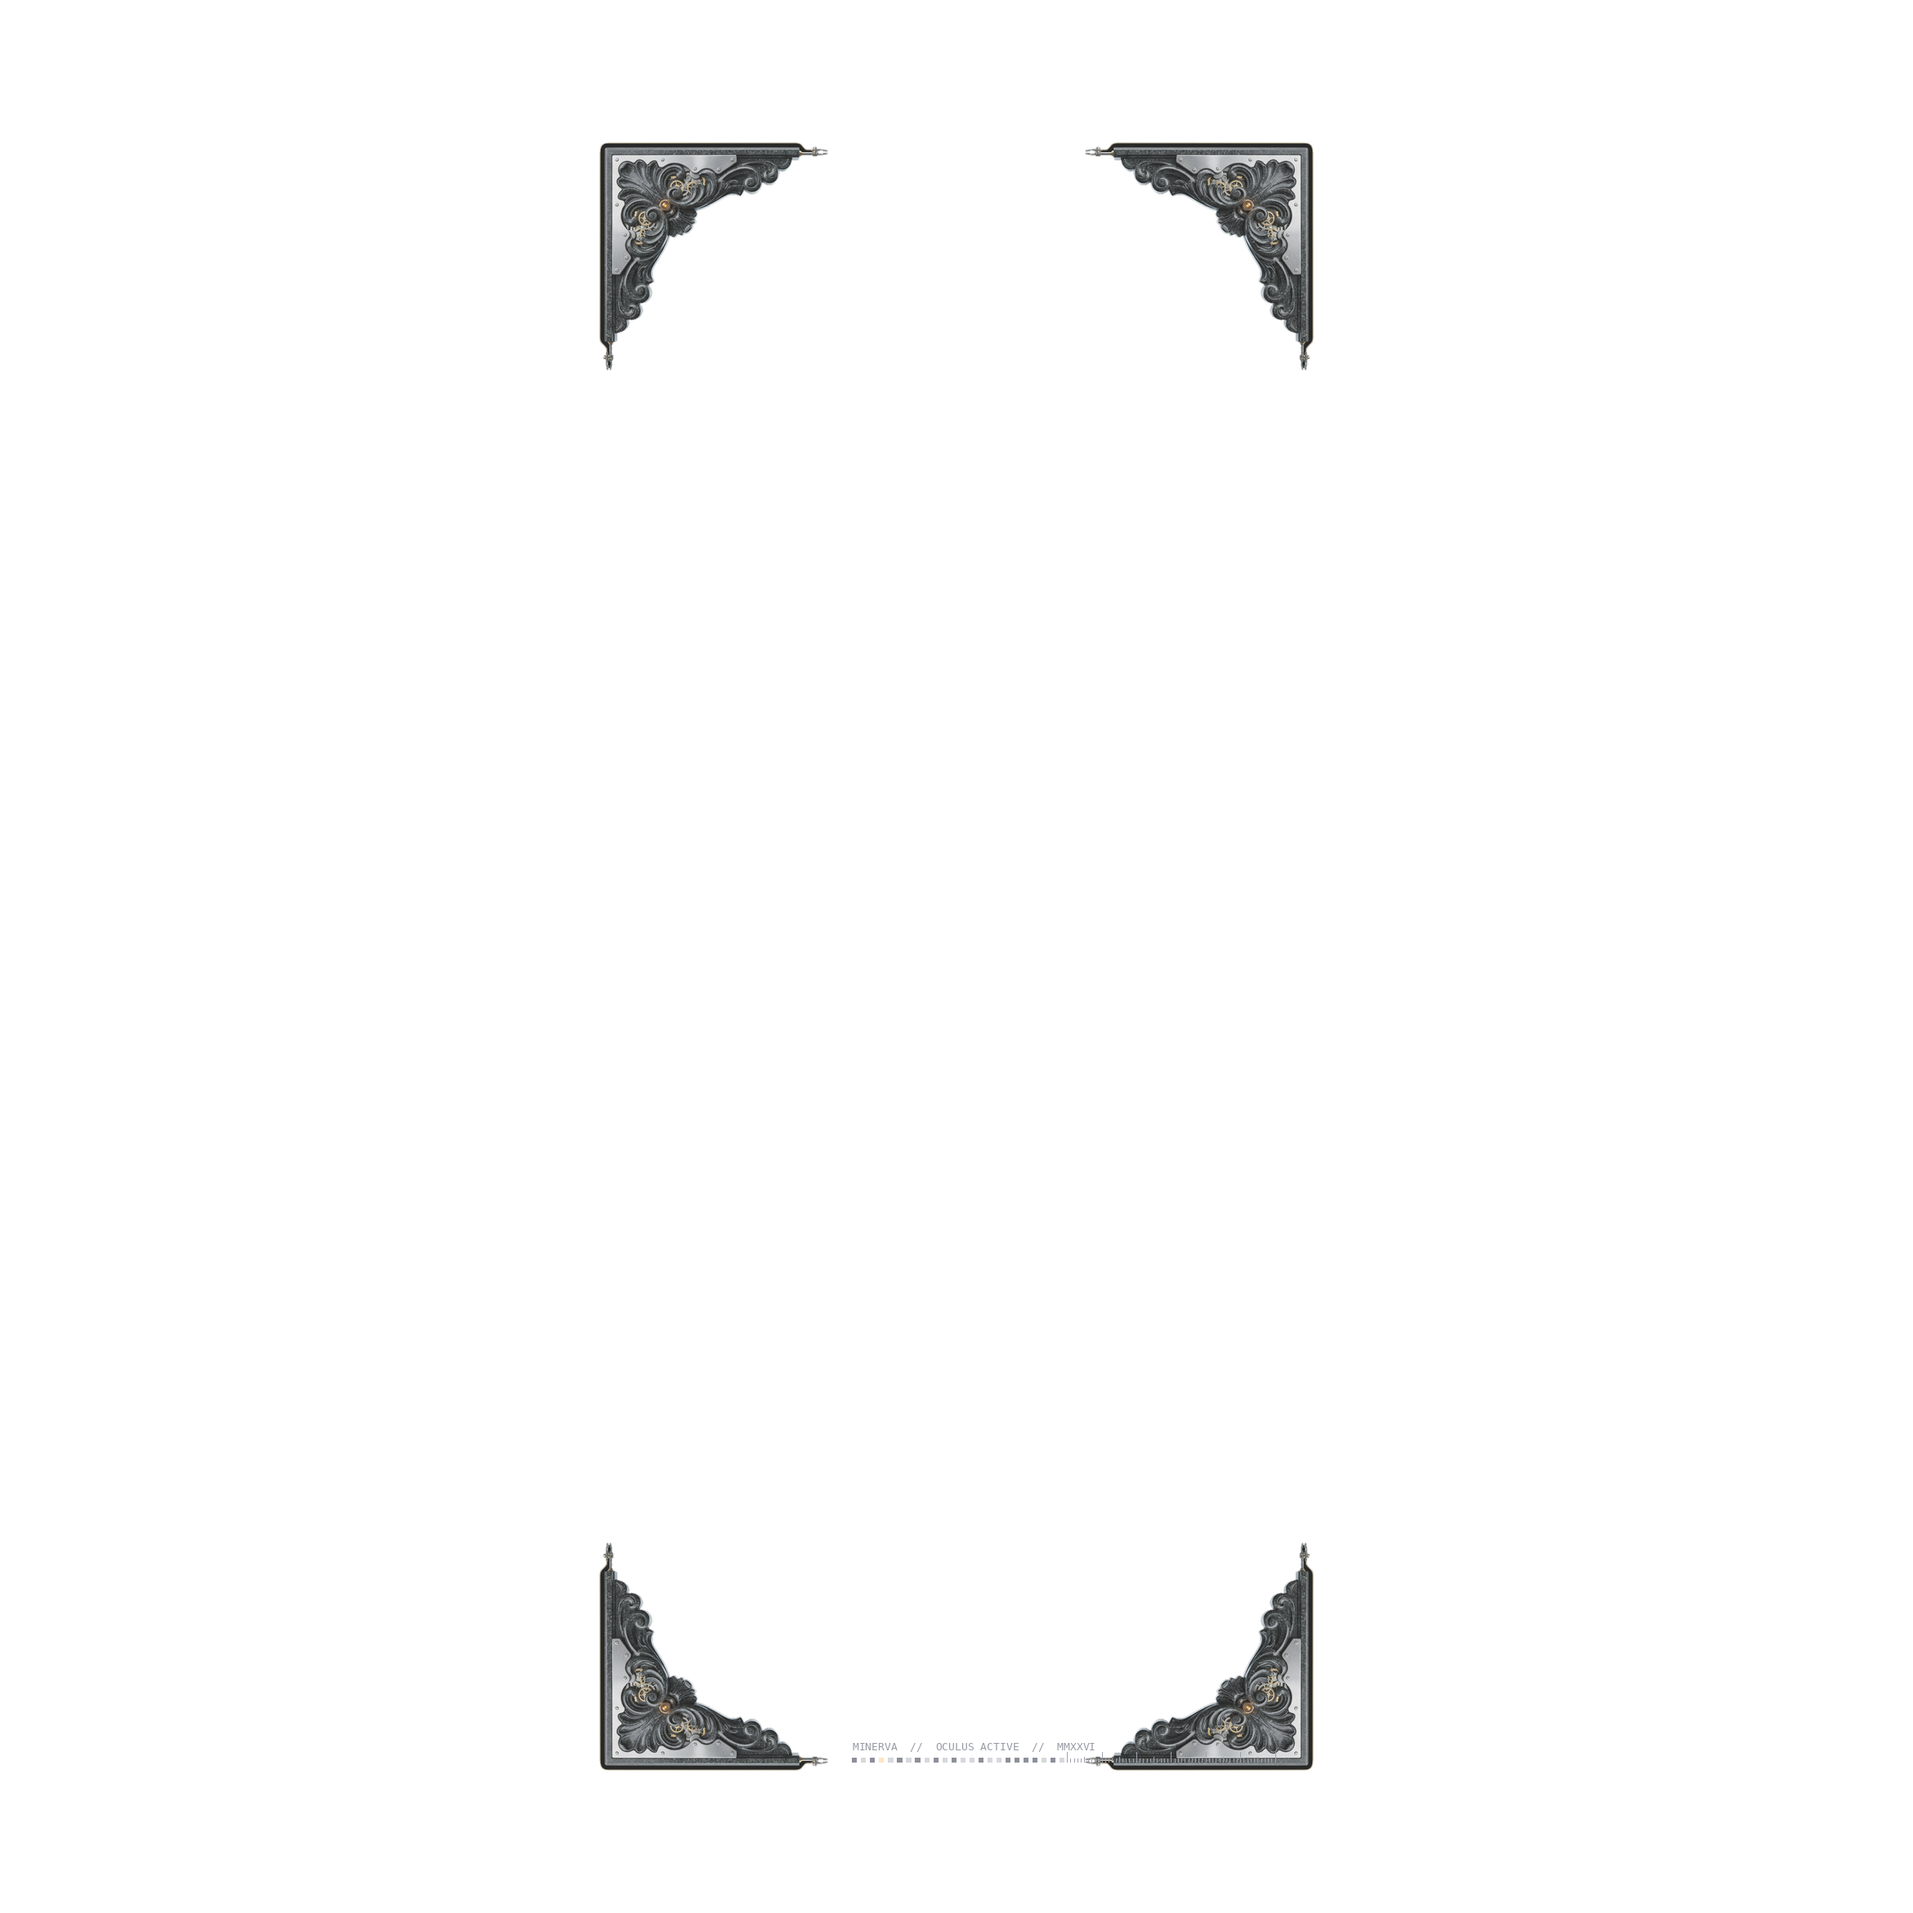
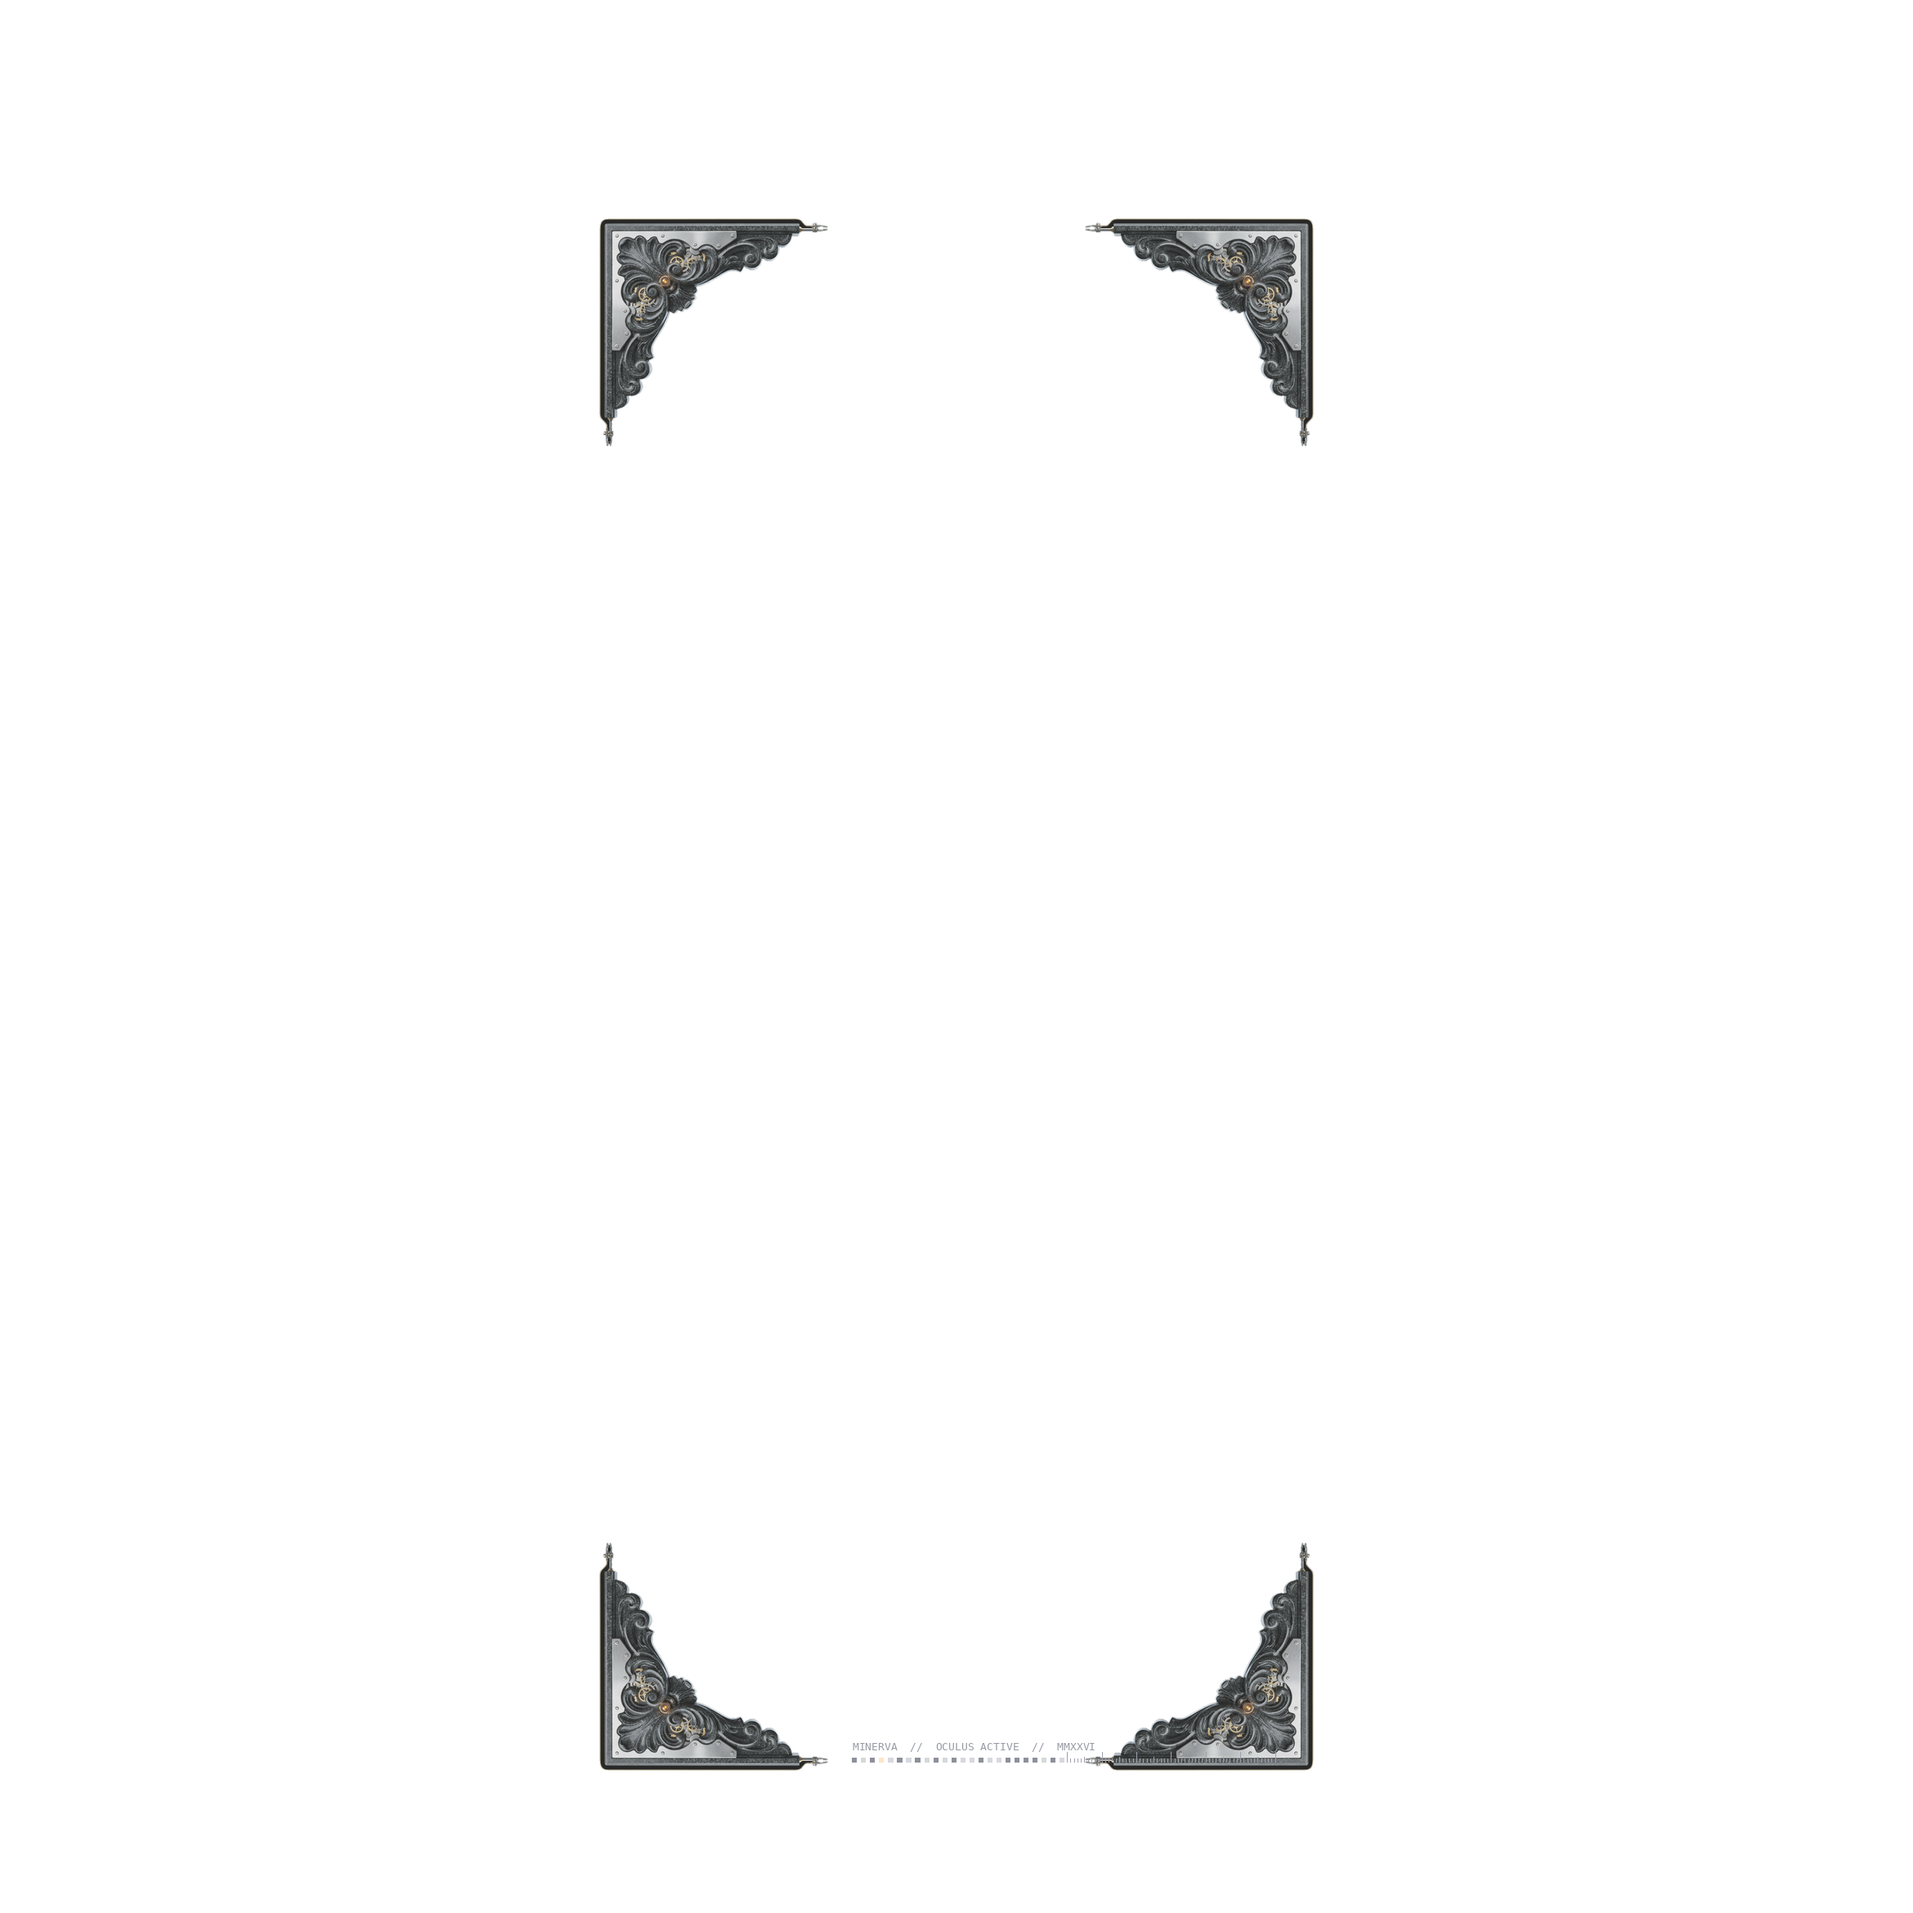
theme v3 (wip): silver tick scale on the shade edge, silver hairline gild, Settings cyan to amber, wallpaper corners clear of the status line

Changed region(s): [[0.5615, 0.0624, 0.6863, 0.2184], [0.312, 0.0624, 0.4368, 0.2184]]

diff --git a/apps/settings/src/style.css b/apps/settings/src/style.css
@@ -77,7 +77,7 @@ button.ns-uninstall { margin: 8px 16px 24px; min-height: 48px; border-radius: 14
  * Michelangelus is installed from the owner's copy, never shipped: the chain falls back. No animation. */
 window.ns-ren, window.ns-ren .ns-root, window.ns-ren.ns-dark, window.ns-ren.ns-dark .ns-root { background-color: #08070d; color: #f0e6d0; }
 window.ns-ren .ns-card, window.ns-ren.ns-dark .ns-card, window.ns-ren .ns-li, window.ns-ren.ns-dark .ns-li {
-  background-color: #13121e; border-radius: 14px; box-shadow: inset 0 0 0 1px alpha(#d9b26a, 0.30); }
+  background-color: #13121e; border-radius: 14px; box-shadow: inset 0 0 0 1px alpha(#b0b5c2, 0.28); }
 window.ns-ren .ns-li-first { border-top-left-radius: 14px; border-top-right-radius: 14px; }
 window.ns-ren .ns-li-last { border-bottom-left-radius: 14px; border-bottom-right-radius: 14px; }
 window.ns-ren .ns-big, window.ns-ren .ns-huge, window.ns-ren .ns-head, window.ns-ren .ns-big-title {
@@ -85,14 +85,14 @@ window.ns-ren .ns-big, window.ns-ren .ns-huge, window.ns-ren .ns-head, window.ns
 window.ns-ren .ns-group-title { color: #d9b26a; font-family: "JetBrains Mono", monospace; font-size: 12px; letter-spacing: 2px; }
 window.ns-ren .ns-title, window.ns-ren label.title, window.ns-ren row { color: #f0e6d0; }
 window.ns-ren .ns-sub, window.ns-ren .ns-note { color: alpha(#f0e6d0, 0.6); }
-window.ns-ren .ns-card separator, window.ns-ren .ns-li > separator { background-color: alpha(#d9b26a, 0.16); }
+window.ns-ren .ns-card separator, window.ns-ren .ns-li > separator { background-color: alpha(#b0b5c2, 0.18); }
 window.ns-ren .ns-accent { color: #d9b26a; }
 window.ns-ren .ns-blue, window.ns-ren .ns-violet, window.ns-ren .ns-purple { background-color: #23418f; color: #d9b26a; }
 window.ns-ren .ns-green, window.ns-ren .ns-lime { background-color: #4a2d0a; color: #ff9f2e; }
 window.ns-ren .ns-orange, window.ns-ren .ns-yellow { background-color: #4a2a1c; color: #e0936f; }
 window.ns-ren .ns-red, window.ns-ren .ns-pink { background-color: #6b1237; color: #ff6f9c; }
 window.ns-ren .ns-grey { background-color: #2a283d; color: #bdb299; }
-window.ns-ren .ns-icon { box-shadow: inset 0 0 0 1px alpha(#d9b26a, 0.55); }
+window.ns-ren .ns-icon { box-shadow: inset 0 0 0 1px alpha(#b0b5c2, 0.45); }
 window.ns-ren switch:checked { background-color: #23418f; }
 window.ns-ren switch:checked slider { background-color: #d9b26a; }
 window.ns-ren scale highlight { background-color: #d9b26a; }

diff --git a/extension/ornament.js b/extension/ornament.js
@@ -1,0 +1,54 @@
+// Ornament of the Renaissance look (theme.js): fine silver hairlines and tick scales, the instrument-panel side of
+// "Cyberpunk meets Italian Renaissance". Drawn once (Canvas redraws only when its size changes), nothing animates.
+import GObject from 'gi://GObject';
+
+import {Canvas} from './icons.js';
+import {Color, setSource} from './palette.js';
+
+const STEP = 5;             // logical px between ticks
+const BAND = 14;            // the scale's height, logical px
+
+// A scale across the width: a hairline with ticks every STEP px (long every 5th, a gold diamond at the middle) and
+// a few tiny HUD squares at the right end. Under the stock look it is never built.
+export const TickScale = GObject.registerClass(
+class TickScale extends Canvas {
+    constructor(width) {
+        super({width, height: BAND});
+    }
+
+    draw(cr, width, height) {
+        const y = Math.round(height / 2) + 0.5;
+        const margin = 40;      // clear of the scrim's rounded corners
+        cr.setLineWidth(1);
+        setSource(cr, Color.silverDim, 0.55);
+        cr.moveTo(margin, y);
+        cr.lineTo(width - margin, y);
+        cr.stroke();
+        const n = Math.floor((width - 2 * margin) / STEP);
+        const mid = margin + Math.round(n / 2) * STEP;
+        for (let i = 0; i <= n; i++) {
+            const x = margin + i * STEP + 0.5;
+            const major = i % 5 === 0;
+            const len = major ? 5 : 2.5;
+            setSource(cr, major ? Color.silver : Color.silverDim, major ? 0.7 : 0.5);
+            cr.moveTo(x, y - len);
+            cr.lineTo(x, y + len);
+            cr.stroke();
+        }
+        // a small gold diamond where the scale is centred
+        setSource(cr, Color.primary, 0.9);
+        cr.moveTo(mid, y - 4);
+        cr.lineTo(mid + 4, y);
+        cr.lineTo(mid, y + 4);
+        cr.lineTo(mid - 4, y);
+        cr.closePath();
+        cr.fill();
+        // HUD squares at the right end
+        setSource(cr, Color.silver, 0.8);
+        for (let k = 0; k < 3; k++)
+            cr.rectangle(width - margin - 3 * (k + 1) * 3 - 1, y - 1.5, 3, 3);
+        cr.fill();
+    }
+});
+
+export const TICK_SCALE_HEIGHT = BAND;

diff --git a/extension/shade.js b/extension/shade.js
@@ -15,6 +15,8 @@ import * as Main from 'resource:///org/gnome/shell/ui/main.js';
 import {animate, Animator, clamp, FAST_OUT_SLOW_IN, fling, lerp, MIN_FLING_VELOCITY, Spring,
     VelocityTracker} from './motion.js';
 import {NotificationStack} from './notifications.js';
+import {TickScale} from './ornament.js';
+import {isRenaissance} from './theme.js';
 import {Color, rgba, SHADE_PANEL} from './palette.js';
 import {QQS_HEIGHT, QSPanel} from './qs.js';
 import {wholeFrames} from './redraws.js';
@@ -104,6 +106,12 @@ export const Shade = GObject.registerClass({
             opacity: 0,
         });
         this.add_child(this._scrim);
+        // the Renaissance look: a fine tick scale along the scrim's top edge, with a silver hairline above it
+        if (isRenaissance()) {
+            this._scrim.style += ` border-top: 1px solid ${rgba(Color.silverDim, 0.6)};`;
+            this._scrim.add_child(new TickScale(this.width));
+            this._scrim.get_last_child().set_position(0, px(6));
+        }
 
         this._stack = new NotificationStack(this);
         this.add_child(this._stack);

diff --git a/extension/palette.js b/extension/palette.js
@@ -103,10 +103,10 @@ export function bodyFamilies() {
     return body ? `${body}, ` : '';
 }
 
-// The Renaissance theme's gilded edge for a surface's St style string (one physical pixel at the phone's scale, a gold
-// hairline); '' in the stock look
+// The Renaissance theme's hairline edge for a surface's St style string (one physical pixel at the phone's scale, a
+// silver hairline: gold is kept for focus and accents); '' in the stock look
 export function gild(alpha = 0.4) {
-    return isRenaissance() ? ` border: ${(1 / SCALE).toFixed(3)}px solid rgba(217, 178, 106, ${alpha});` : '';
+    return isRenaissance() ? ` border: ${(1 / SCALE).toFixed(3)}px solid rgba(176, 181, 194, ${alpha});` : '';
 }
 
 // Data text (the status bar clock) in a mono face in the Renaissance theme; Pango falls to the stock face without it

diff --git a/tools/parallax-renaissance/build_renaissance.py b/tools/parallax-renaissance/build_renaissance.py
@@ -183,7 +183,7 @@ def main():
 
     l4 = blank()
     cb = corner_bracket()
-    for fx, fy, x, y in ((False, False, 190, 190), (True, False, SW - 190, 190), (False, True, 190, SH - 190),
+    for fx, fy, x, y in ((False, False, 190, 300), (True, False, SW - 190, 300), (False, True, 190, SH - 190),
                          (True, True, SW - 190, SH - 190)):
         place(l4, scaled(cb, 0.85), DEPTHS[4], x, y, w=330, flip_x=fx, flip_y=fy)
     hud(l4)
